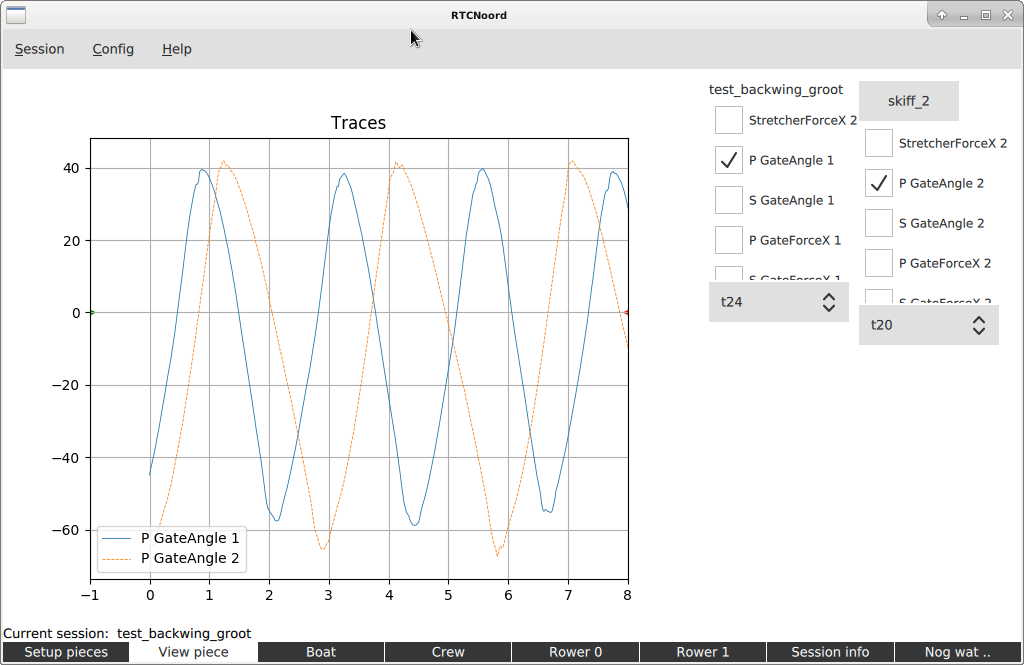
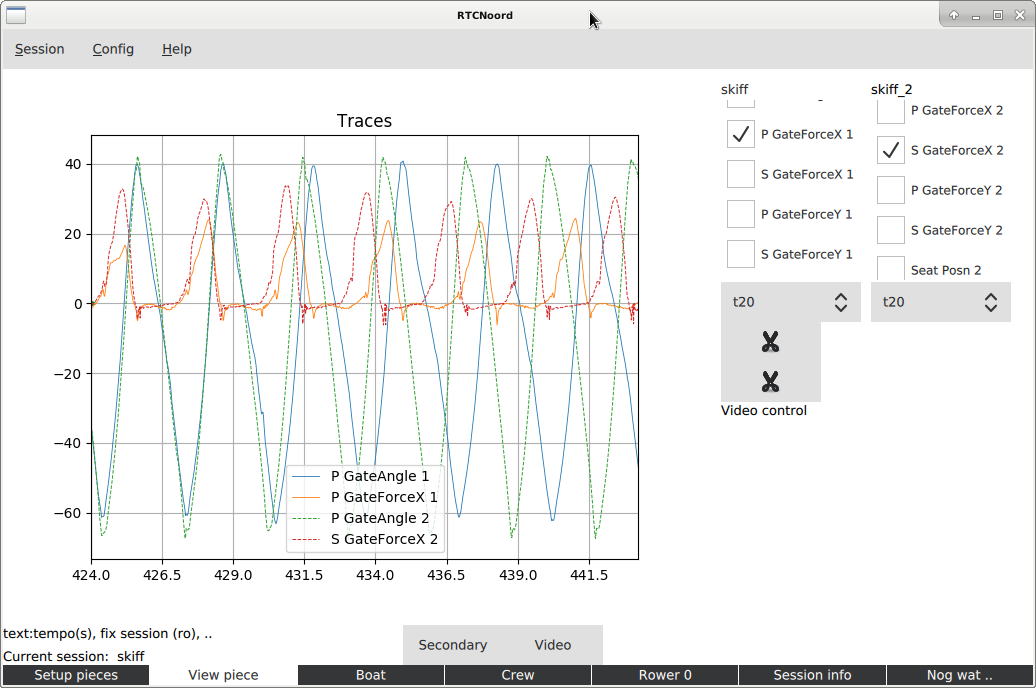
Updated the README

diff --git a/README.md b/README.md
@@ -5,6 +5,7 @@ This system collects data from a rowing boat using various sensors.
 
 ## Usage
 
+  - Currently, start the program from the App directory with: "python main.py"
   - Create a csv-file from the interesting part of a session using the Powerline software and put it in the csv-data directory.
   - Start the app and select the csv-file from the menu.
     Now data is preprocessed and saved in a sessionInfo-file and a dataObject-file.
@@ -37,7 +38,15 @@ The currently selected pieces are shown in the right part of the screen.
 ### View Piece
 
 In the View Piece tab we can study the traces in more detail.
-In this example two different sessions a selected to compare the trace of these two sessions.
+In this example two different sessions are selected to compare traces from these sessions.
+Here the gate-angle and -force are shows from two different scullers.
+Note that the traces are not yet "normalised" to make a better comparision possible.
+
+![Eerste](docs/ViewPiece.png)
+
+### Using video
+
+Although not working completely, we already can put a video next to a view piece, where the red line is to be the point the still is showing.
 
 ![Eerste](docs/ViewPiece.png)
 
